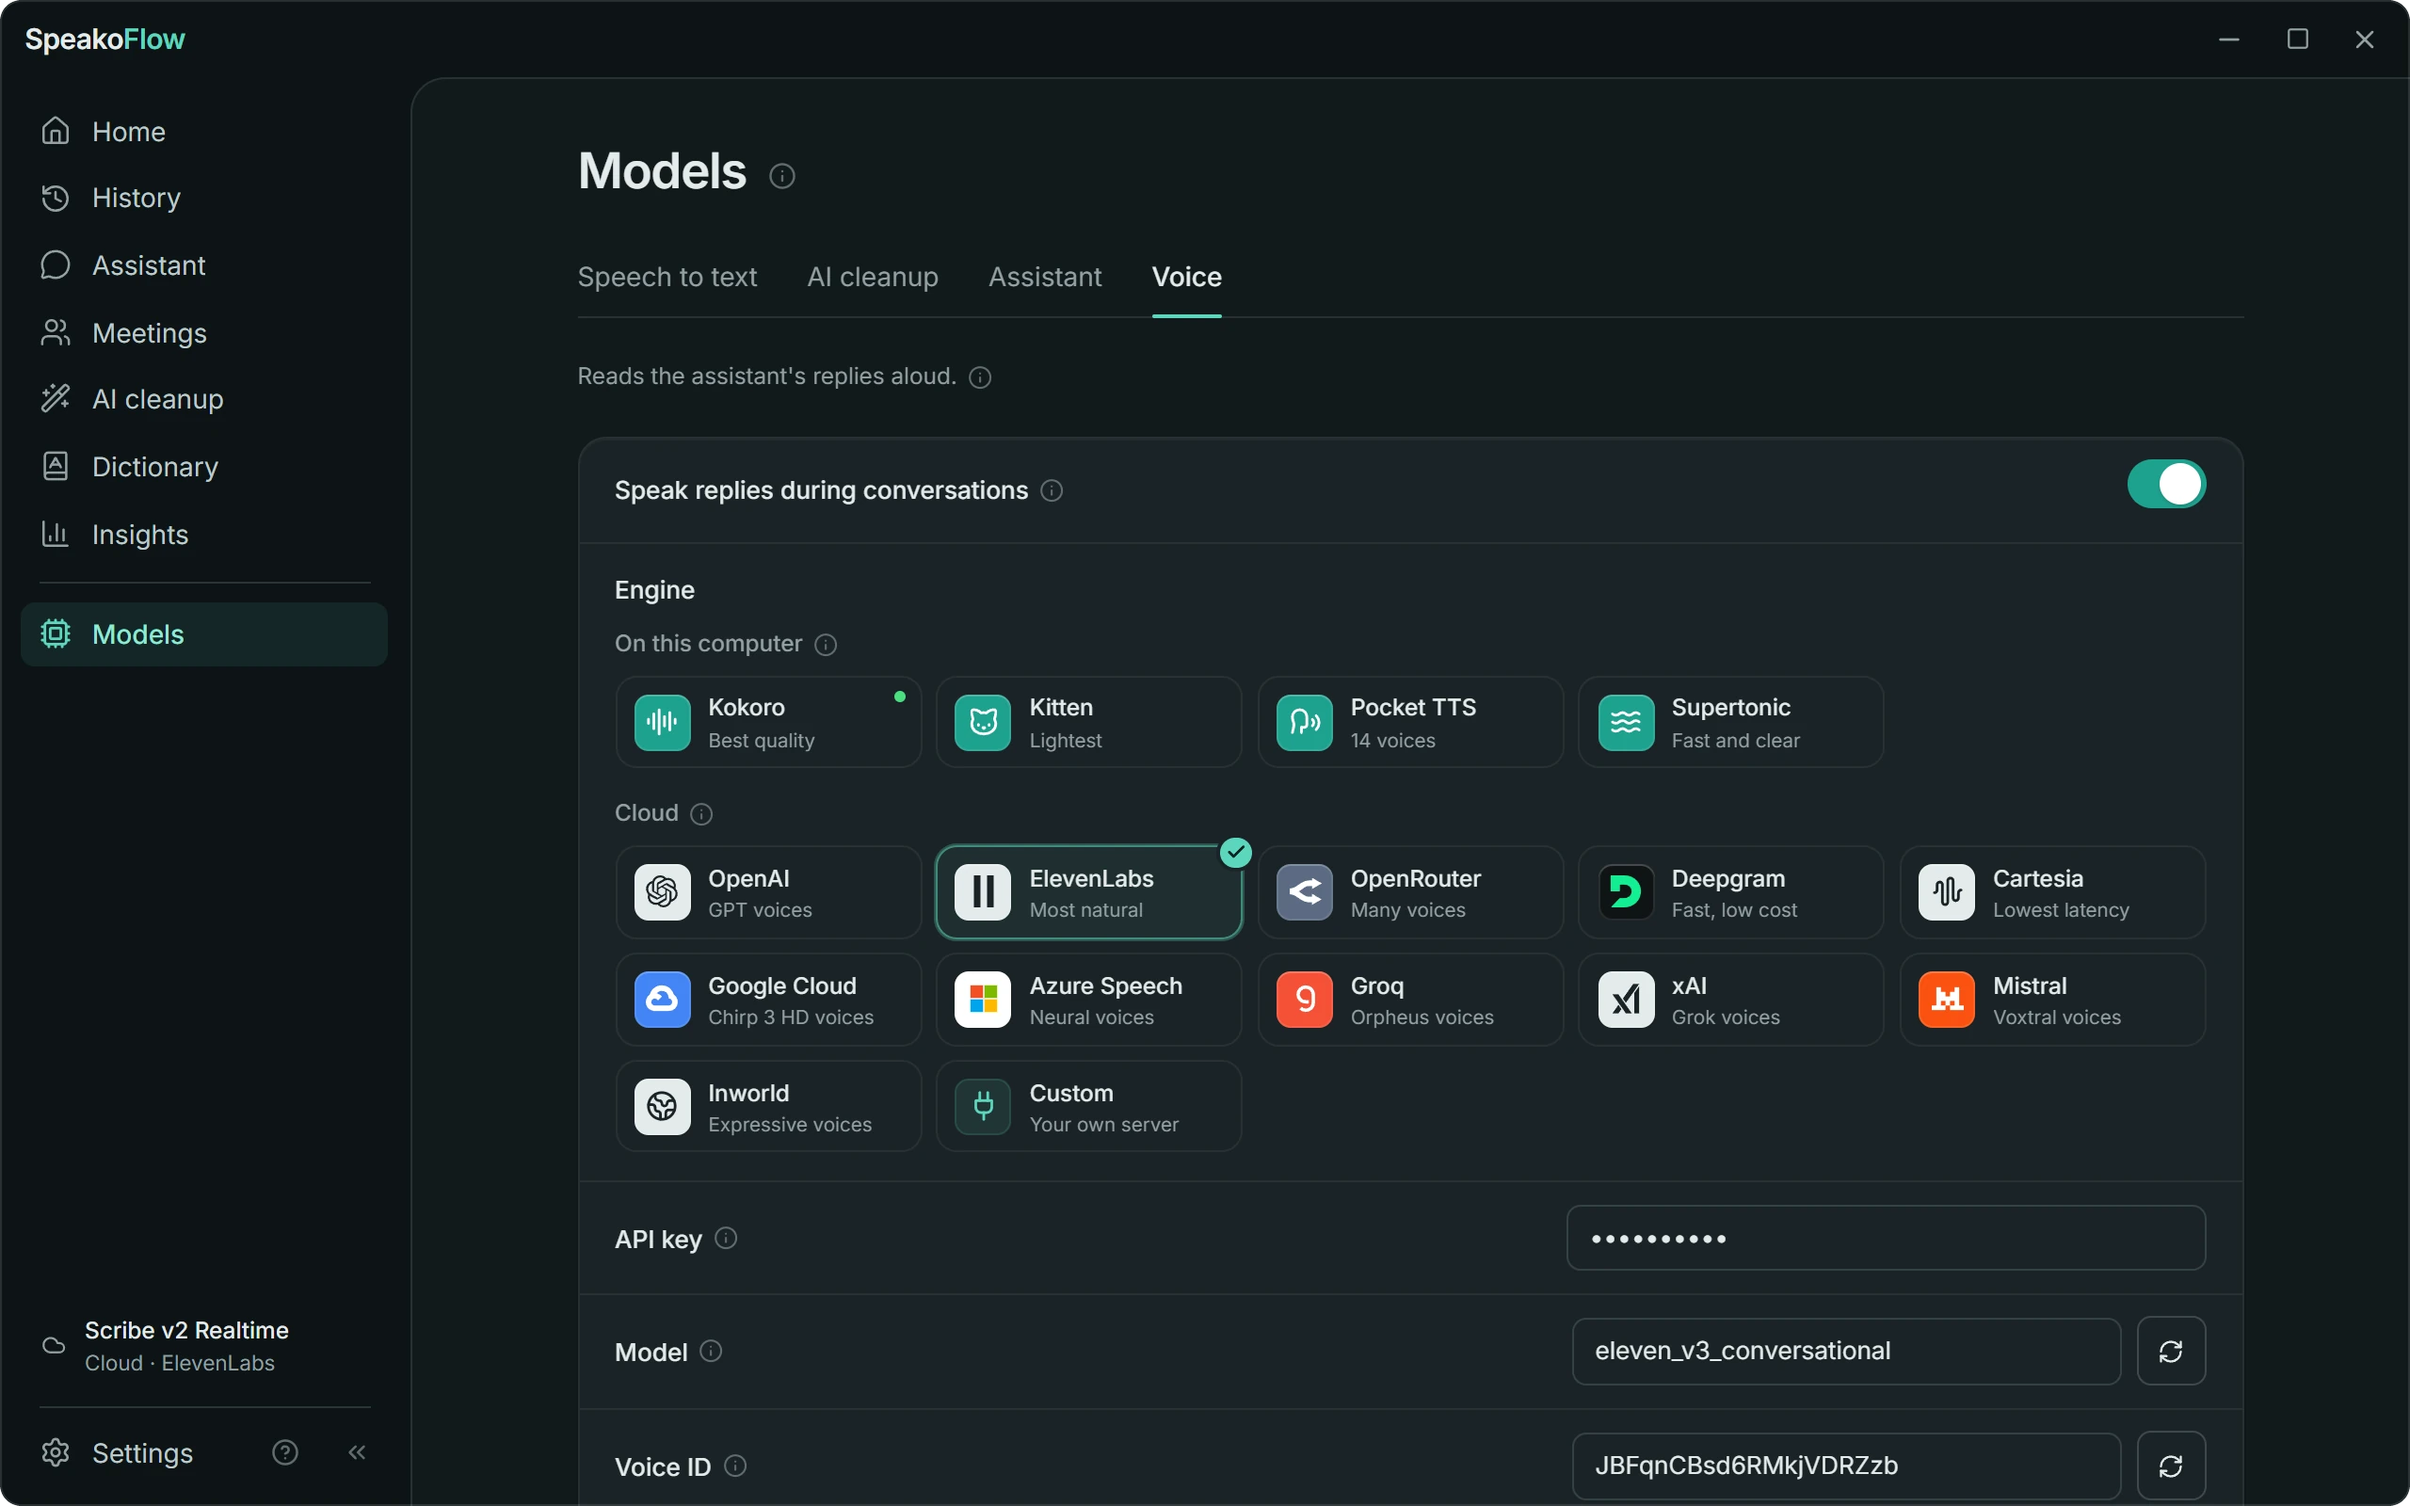
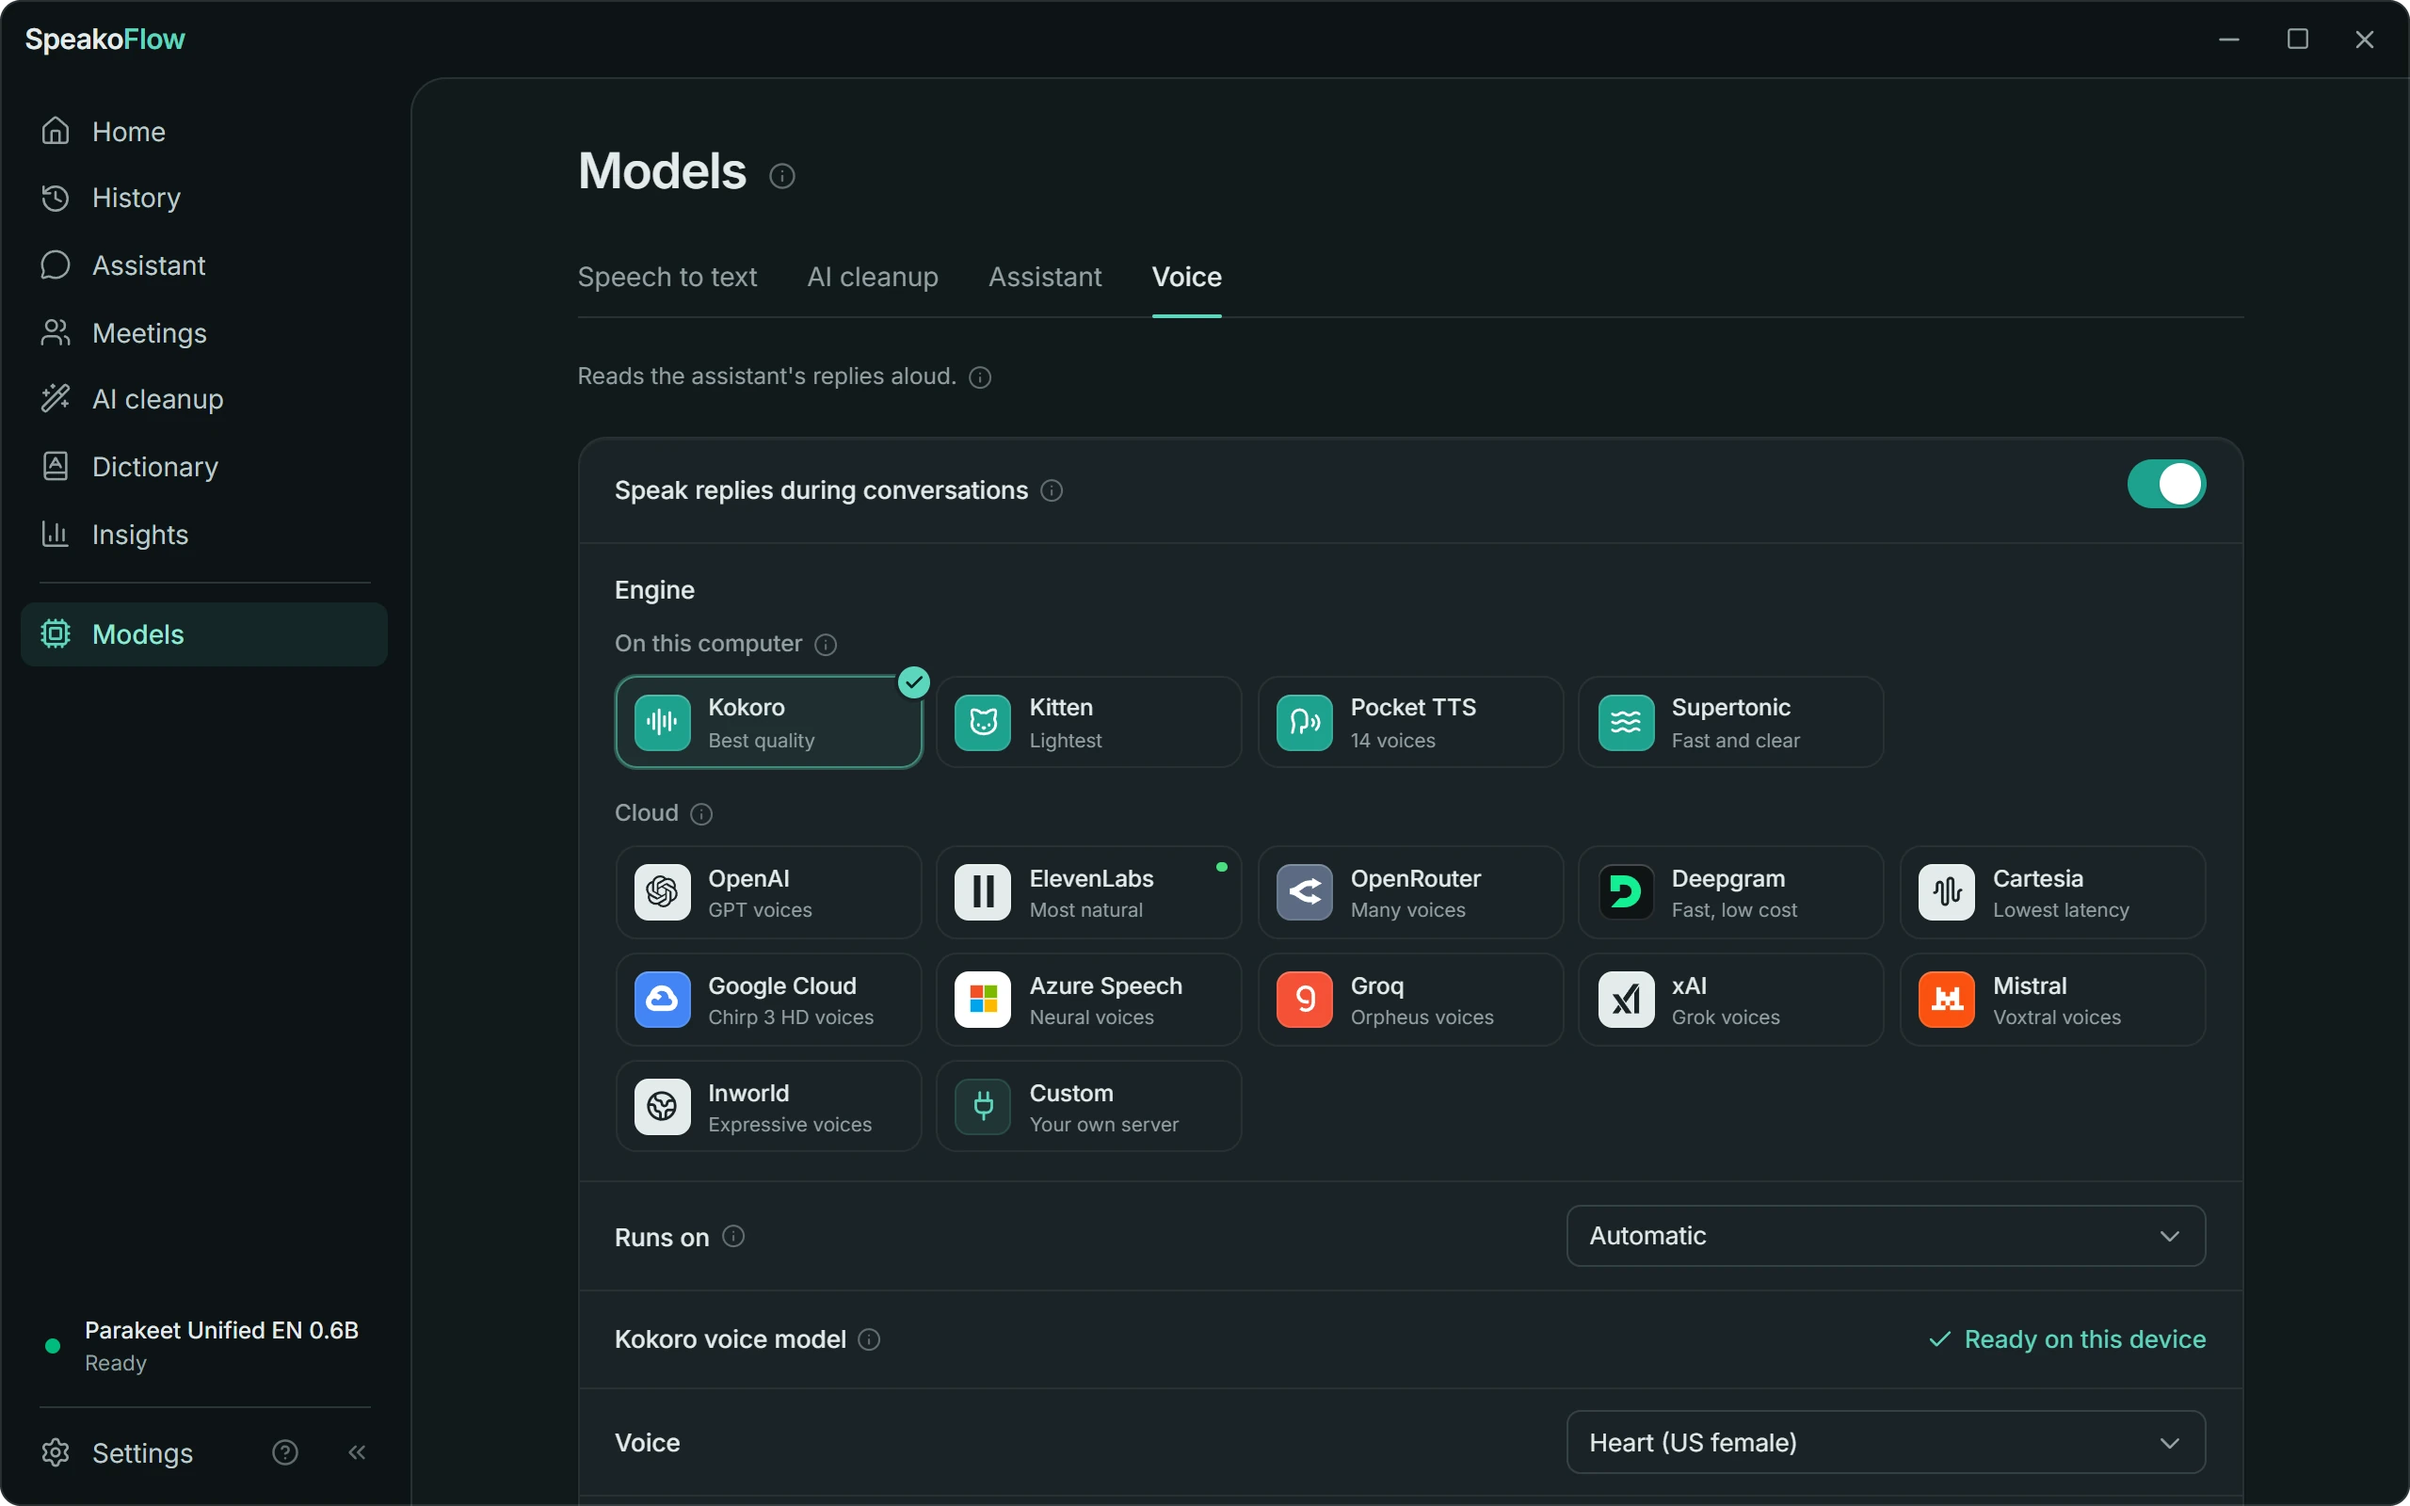
docs: show a local-first setup in the README screenshots
Every screenshot showed cloud providers, which undersold a privacy-first app. Speech to text, cleanup, and voice now run on the device (Parakeet, SpeakoFlow Mini, Kokoro) with a cloud model for the assistant, and Insights shows a heavier user.

diff --git a/README.md b/README.md
@@ -294,8 +294,8 @@ Full documentation for each:
 <td width="50%" valign="top"><img src="assets/readme/screens/insights.webp" alt="The Insights page: words dictated, words per minute, time saved, number of dictations, and a six-month activity map" /><br /><sub><b>Insights.</b> How much you dictate, and how much typing it saved.</sub></td>
 </tr>
 <tr>
-<td width="50%" valign="top"><img src="assets/readme/screens/models.webp" alt="The speech-to-text model settings, with cloud providers such as ElevenLabs, OpenRouter, OpenAI, Deepgram, and Azure AI Speech" /><br /><sub><b>Models.</b> On this computer or in the cloud, one job at a time.</sub></td>
-<td width="50%" valign="top"><img src="assets/readme/screens/models-voice.webp" alt="The voice settings, with on-device voices such as Kokoro, Kitten, Pocket TTS, and Supertonic, and cloud voices from a dozen providers" /><br /><sub><b>Voices.</b> Local voices or a dozen cloud ones for spoken replies.</sub></td>
+<td width="50%" valign="top"><img src="assets/readme/screens/models.webp" alt="The speech-to-text model settings running on this computer, with Parakeet in use and more local models ready to download" /><br /><sub><b>Models.</b> On this computer or in the cloud, one job at a time.</sub></td>
+<td width="50%" valign="top"><img src="assets/readme/screens/models-voice.webp" alt="The voice settings with Kokoro selected and running on this computer, beside the other on-device voices and a dozen cloud ones" /><br /><sub><b>Voices.</b> Local voices or a dozen cloud ones for spoken replies.</sub></td>
 </tr>
 </table>
 
